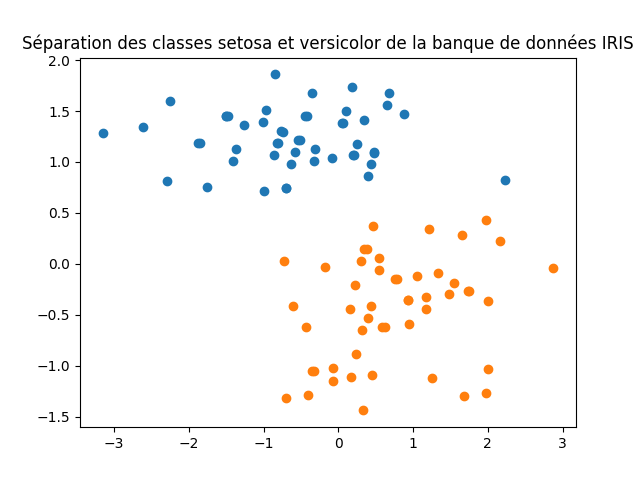
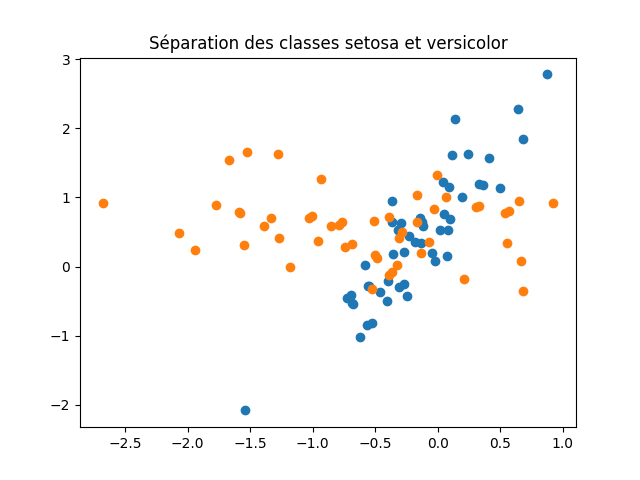
Added 2d

diff --git a/main.py b/main.py
@@ -43,6 +43,7 @@ def getEcartTypeClasse(dataset, nomClasse):
     petalWidthStd = round(classe[PETAL_WIDTH].std(), 1)
     return IRISClass(sepalLengthStd, sepalWidthStd, petalLengthStd, petalWidthStd, nomClasse)
 
+
 def distanceEuclide(classe, centreClasse):
     minDistance = float('inf')
     maxDistance = 0
@@ -192,10 +193,6 @@ def methodeDeuxB(iris):
     histogrammeNormalise("histo_norm_SetosaVirgi.png", normalizedIRIS, SETOSA, VIRGINICA)
     histogrammeNormalise("histo_norm_VersiVirgi.png", normalizedIRIS, VERSICOLOR, VIRGINICA)
 
-    # # On sort les 3 combinaisons de nuages de points avec les données transformées
-    # nuagePointsNormalise("np_norm_SetosaVersi.png", normalizedIRIS, SETOSA, VERSICOLOR, getEigenValues(normalizedIRIS, 2))
-    # nuagePointsNormalise("np_norm_SetosaVirgi.png", normalizedIRIS, SETOSA, VIRGINICA, getEigenValues(normalizedIRIS, 2))
-    # nuagePointsNormalise("np_norm_VersiVirgi.png", normalizedIRIS, VERSICOLOR, VIRGINICA, getEigenValues(normalizedIRIS, 2))
     return
 
 
@@ -203,6 +200,15 @@ def methodeDeuxC(iris):
     nuagePoints("np_SetoVersi_PW_SL.png", iris, SETOSA, VERSICOLOR, PETAL_WIDTH, SEPAL_LENGTH)
     nuagePoints("np_SetoVirgi_PW_PL.png", iris, SETOSA, VIRGINICA, PETAL_WIDTH, PETAL_LENGTH)
     nuagePoints("np_VersiVirgi_SW_PW.png", iris, VERSICOLOR, VIRGINICA, SEPAL_WIDTH, PETAL_WIDTH)
+
+    return
+
+
+def methodeDeuxD(iris):
+    normalizedIRIS = normalizeIRIS(iris)
+    nuagePointsNormalise("np_norm_SetosaVersi.png", normalizedIRIS, SETOSA, VERSICOLOR)
+    nuagePointsNormalise("np_norm_SetosaVirgi.png", normalizedIRIS, SETOSA, VIRGINICA)
+    nuagePointsNormalise("np_norm_VersiVirgi.png", normalizedIRIS, VERSICOLOR, VIRGINICA)
 
     return
 
@@ -249,27 +255,31 @@ def nuagePoints(nomFichier, iris, nomDataA, nomDataB, nomVariableA, nomVariableB
     dataB = iris[iris[SPECIES] == nomDataB]
     plot.scatter(x=dataA[nomVariableA], y=dataA[nomVariableB])
     plot.scatter(x=dataB[nomVariableA], y=dataB[nomVariableB])
-    plot.title("Classes " + nomDataA + " et " + nomDataB + " avec les variables " + nomVariableA + " et " + nomVariableB)
+    plot.title(
+        "Classes " + nomDataA + " et " + nomDataB + " avec les variables " + nomVariableA + " et " + nomVariableB)
     plot.ylabel(nomVariableB)
     plot.xlabel(nomVariableA)
     plot.savefig("output/" + nomFichier)
 
 
-def nuagePointsNormalise(nomFichier, irisNormalise, nomDataA, nomDataB, eigenVectors):
+def nuagePointsNormalise(nomFichier, irisNormalise, nomDataA, nomDataB):
     plot.clf()
     plot.figure(1)
 
+    eigenVecA = getEigenValues(irisNormalise, nomDataA, nomDataB, 2)
+    eigenVecB = getEigenValues(irisNormalise, nomDataB, nomDataB, 2)
+
     dataNormA = irisNormalise[irisNormalise[SPECIES] == nomDataA]
     dataNormA = dataNormA[[SEPAL_LENGTH, SEPAL_WIDTH, PETAL_LENGTH, PETAL_WIDTH]]
-    dataNormA = np.matmul(eigenVectors, dataNormA.to_numpy().transpose())
+    dataNormA = np.matmul(eigenVecA, dataNormA.to_numpy().transpose())
 
     dataNormB = irisNormalise[irisNormalise[SPECIES] == nomDataB]
     dataNormB = dataNormB[[SEPAL_LENGTH, SEPAL_WIDTH, PETAL_LENGTH, PETAL_WIDTH]]
-    dataNormB = np.matmul(eigenVectors, dataNormB.to_numpy().transpose())
+    dataNormB = np.matmul(eigenVecB, dataNormB.to_numpy().transpose())
 
     plot.scatter(x=dataNormA[0], y=dataNormA[1])
     plot.scatter(x=dataNormB[0], y=dataNormB[1])
-    plot.title("Séparation des classes " + nomDataA + " et " + nomDataB + " de la banque de données IRIS")
+    plot.title("Séparation des classes " + nomDataA + " et " + nomDataB)
     plot.savefig("output/" + nomFichier)
 
 
@@ -312,31 +322,41 @@ def normalizeIRIS(iris):
     ecartTypeVirginica = getEcartTypeClasse(iris, "virginica")
 
     setosaSepalL = (iris[iris["species"] == "setosa"][
-                        ["sepal_length"]] - round(iris["sepal_length"].mean(), 1)) / round(iris["sepal_length"].std(), 1)
+                        ["sepal_length"]] - round(iris["sepal_length"].mean(), 1)) / round(iris["sepal_length"].std(),
+                                                                                           1)
     setosaSepalW = (iris[iris["species"] == "setosa"][
                         ["sepal_width"]] - round(iris["sepal_width"].mean(), 1)) / round(iris["sepal_width"].std(), 1)
     setosaPetalL = (iris[iris["species"] == "setosa"][
-                        ["petal_length"]] - round(iris["petal_length"].mean(), 1)) / round(iris["petal_length"].std(), 1)
+                        ["petal_length"]] - round(iris["petal_length"].mean(), 1)) / round(iris["petal_length"].std(),
+                                                                                           1)
     setosaPetalW = (iris[iris["species"] == "setosa"][
                         ["petal_width"]] - round(iris["petal_width"].mean(), 1)) / round(iris["petal_width"].std(), 1)
 
     versicolorSepalL = (iris[iris["species"] == "versicolor"][
-                            ["sepal_length"]] - round(iris["sepal_length"].mean(), 1)) / round(iris["sepal_length"].std(), 1)
+                            ["sepal_length"]] - round(iris["sepal_length"].mean(), 1)) / round(
+        iris["sepal_length"].std(), 1)
     versicolorSepalW = (iris[iris["species"] == "versicolor"][
-                            ["sepal_width"]] - round(iris["sepal_width"].mean(), 1)) / round(iris["sepal_width"].std(), 1)
+                            ["sepal_width"]] - round(iris["sepal_width"].mean(), 1)) / round(iris["sepal_width"].std(),
+                                                                                             1)
     versicolorPetalL = (iris[iris["species"] == "versicolor"][
-                            ["petal_length"]] - round(iris["petal_length"].mean(), 1)) / round(iris["petal_length"].std(), 1)
+                            ["petal_length"]] - round(iris["petal_length"].mean(), 1)) / round(
+        iris["petal_length"].std(), 1)
     versicolorPetalW = (iris[iris["species"] == "versicolor"][
-                            ["petal_width"]] - round(iris["petal_width"].mean(), 1)) / round(iris["petal_width"].std(), 1)
+                            ["petal_width"]] - round(iris["petal_width"].mean(), 1)) / round(iris["petal_width"].std(),
+                                                                                             1)
 
     virginicaSepalL = (iris[iris["species"] == "virginica"][
-                           ["sepal_length"]] - round(iris["sepal_length"].mean(), 1)) / round(iris["sepal_length"].std(), 1)
+                           ["sepal_length"]] - round(iris["sepal_length"].mean(), 1)) / round(
+        iris["sepal_length"].std(), 1)
     virginicaSepalW = (iris[iris["species"] == "virginica"][
-                           ["sepal_width"]] - round(iris["sepal_width"].mean(), 1)) / round(iris["sepal_width"].std(), 1)
+                           ["sepal_width"]] - round(iris["sepal_width"].mean(), 1)) / round(iris["sepal_width"].std(),
+                                                                                            1)
     virginicaPetalL = (iris[iris["species"] == "virginica"][
-                           ["petal_length"]] - round(iris["petal_length"].mean(), 1)) / round(iris["petal_length"].std(), 1)
+                           ["petal_length"]] - round(iris["petal_length"].mean(), 1)) / round(
+        iris["petal_length"].std(), 1)
     virginicaPetalW = (iris[iris["species"] == "virginica"][
-                           ["petal_width"]] - round(iris["petal_width"].mean(), 1)) / round(iris["petal_width"].std(), 1)
+                           ["petal_width"]] - round(iris["petal_width"].mean(), 1)) / round(iris["petal_width"].std(),
+                                                                                            1)
 
     sepalLength = panda.concat([setosaSepalL, versicolorSepalL, virginicaSepalL])
     sepalWidth = panda.concat([setosaSepalW, versicolorSepalW, virginicaSepalW])
@@ -431,6 +451,10 @@ def main():
 
     # Méthode 2c (2.b)
     methodeDeuxC(iris)
+
+    # Méthode 2d (2.b + 2.c)
+    methodeDeuxD(iris)
+
 
 if __name__ == '__main__':
     main()
